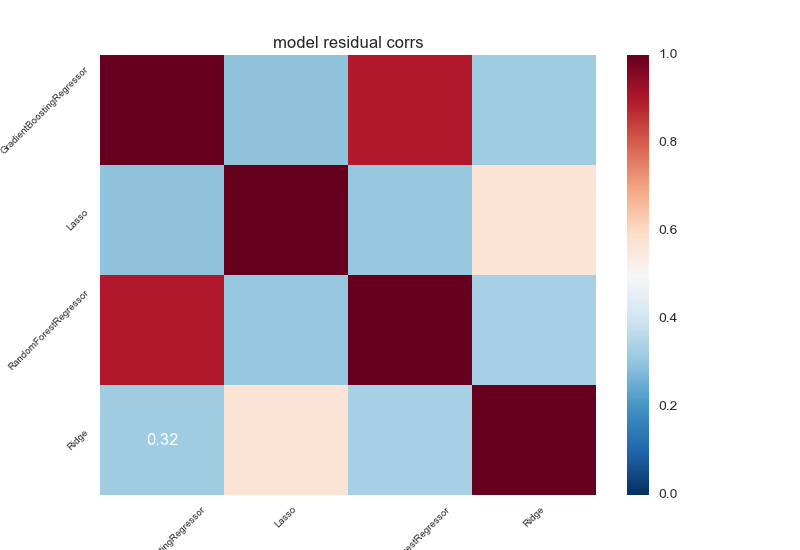
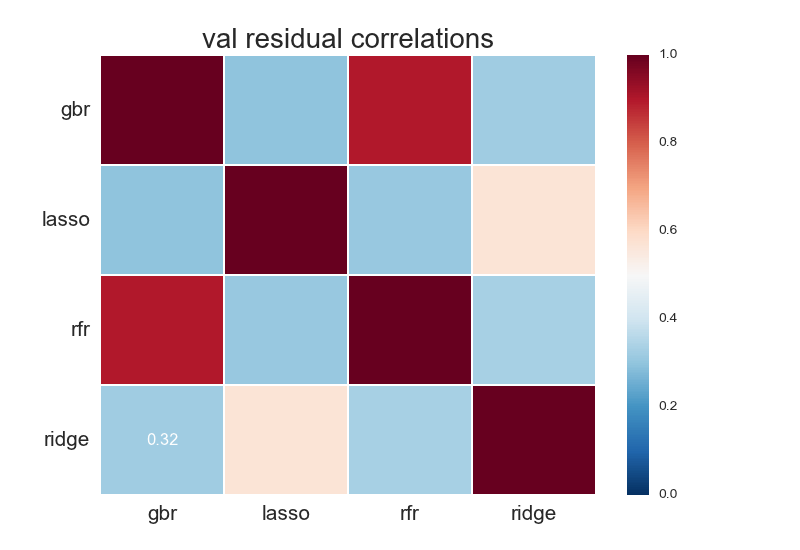
edits to readme

diff --git a/ANALYSIS/RESIDUALS/error_corr.py b/ANALYSIS/RESIDUALS/error_corr.py
@@ -19,6 +19,8 @@ def merge_preds(modell=['RandomForestRegressor','GradientBoostingRegressor','Rid
 			df = pd.read_csv(X)
 			name = X.split('/')[-1].split('.'+modeltype+'.csv')[0]
 			df['name']  = name
+			if 'test_pred' in df.columns:
+				df.rename(columns={'test_pred':'test.'+modeltype},inplace=True)
 			d[name].append(df)
 
 	for key in d.keys():
@@ -32,23 +34,31 @@ def merge_preds(modell=['RandomForestRegressor','GradientBoostingRegressor','Rid
 		mydf.to_csv(fi,index=False)
 
 def concat_merge(path=None):
+	print 'WRITING CONCATENATED FILE!'
 	pll =   glob.glob(path+'/*.csv')
 	c_df =pd.DataFrame()
+	dfs = []
 	for X in pll:
 		this = pd.read_csv(X)
-		if c_df.empty:
-			c_df =this
-		else:
-			c_df = pd.concat([c_df,this])
-	c_df.to_csv(writepath+'composite.csv',index=False)
+		dfs.append(this)
+		#if c_df.empty:
+		#	c_df =this
+		#else:
+		#	c_df = pd.concat([c_df,this],axis=0)
+		#print 'at {},len={}'.format(X,len(c_df))
+		#print c_df.columns.values.tolist()
+	c_df = pd.concat(dfs)
+	c_df.to_csv(path+'composite.csv',index=False)
 	return c_df
 	
 	
 
 
 def get_residual(df=None,modell=['RandomForestRegressor','GradientBoostingRegressor','Ridge','Lasso'],predtype=None):
-	if predtype=='val': impstr = 'cv'
-	else: impstr = 'test'
+
+	mod_dict = {'RandomForestRegressor':'rfr','Lasso':'Lasso','Ridge':'ridge','GradientBoostingRegressor':'gbr'}
+	if predtype=='val': impstr = 'cv.'
+	else: impstr = 'test.'
 	print df
 	pcols = [X for X in df.columns.values.tolist() if impstr in X]
 	idcols = [X for X in df.columns.values.tolist() if 'contest_ID' in X]
@@ -56,7 +66,8 @@ def get_residual(df=None,modell=['RandomForestRegressor','GradientBoostingRegres
 	rescols = []
 
 	for X in pcols:
-		resstr = 'res.'+X
+		Y = mod_dict[X.replace(impstr,'')]
+		resstr = 'res.'+Y.lower()
 		rescols.append(resstr)
 		df[resstr] = df[X]-df['true']
 	df.drop(pcols,1,inplace=True)
@@ -64,7 +75,7 @@ def get_residual(df=None,modell=['RandomForestRegressor','GradientBoostingRegres
 	df = df[keepcols]
 	df.columns = [X.split('.')[-1] for X in df.columns.values.tolist()]
 	scols = sorted(df.columns.values.tolist())
-
+	df.dropna(inplace=True)
 	return df[scols]
 
 
@@ -79,7 +90,7 @@ if __name__ == '__main__':
 		if predtype not in ptype_dict.keys():
 			print '*** predtype {}. choose from {}'.format(predtype, ptype_dict.keys())
 			sys.exit()
-        except Exception: predtype = 'val' ; ttype='gpp'
+        except Exception: predtype = 'test' ; ttype='gpp'
 
 	readpath_piece = '../../'+ttype+'_MYMODELS/'
 	path = readpath_piece+ptype_dict[predtype]+'/'
@@ -92,12 +103,12 @@ if __name__ == '__main__':
 
 	else:
 		df = pd.read_csv(composite_path)
-	df.dropna(inplace=True)
-
 	cdf = get_residual(df=df,predtype=predtype)
 	print cdf.info(verbose=True,null_counts=True)
-	sns.heatmap(cdf.corr(),center=0.5,annot=True)
-	plt.xticks(rotation=45,fontsize=7)
-	plt.yticks(rotation=45,fontsize=7)
-	plt.title('model residual corrs')
+	corrmat = cdf.corr()
+	print corrmat
+	sns.heatmap(corrmat,center=0.5,annot=True,linewidths=0.5,robust=True)
+	plt.xticks(rotation=0,fontsize=15)
+	plt.yticks(rotation=0,fontsize=15)
+	plt.title(predtype+' residual correlations',fontsize=20)
 	plt.savefig(ttype+'.'+predtype+'.corrmat.png')

diff --git a/README.md b/README.md
@@ -21,7 +21,7 @@ What causes gamblers to make the choices they make with the information they hav
 I set out to answer these questions using scraped contest records of field ownerships in past FanDuel NBA contests (thanks to [@brainydfs](http://brainydfs.com/)), historic athlete performance data from [sportsdatabase.com](http://sportsdatabase.com/), the news leading up to the particular contest (e.g., "industry" fantasy output projections from [basketballmonster.com](http://basketballmonster.com), [fantasycrunchers.com](http://fantasycrunchers.com), and others, themselves the output of decidedly mediocre regression models, available injury/roster reporting, etc.), and elements of the fantasy game mechanics presumed to impact fantasy gamblers' decisions. (These and others are detailed below.) I trained and validated ~400 player-centered models (estimators include ridge, lasso, random forest, and gradient-boosted regressors) on over 700 "tournament" contests from the 2016 season and the first two months of the 2017 season, holding out January 2017 slates for model testing.
 
 ## Results
-  * training/validating player-centered models
+  * __training/validating player-centered models__
 
    Below is a plot of athletes' average ownerships against their standard deviations. Colors correspond to k-Means decomposition (n=5) of the matrix of player models by respective model coefficients. Clustering of player models (only implicitly included in the model parameters) indicates similar model composition among athletes in close proximity on the mean-standard deviation plane. In other words, it turns out that common factors drive (un)popular athletes' market share.
 
@@ -210,18 +210,18 @@ I set out to answer these questions using scraped contest records of field owner
    |E'Twaun Moore|9.55|12.29|7.51|6.81|0.69|
  
   
-  * models in hold-out
+  * __models in hold-out__
   ![alt text](https://github.com/amadeus-pinto/forecasting-daily-fantasy-gambler-picks-based-on-the-news/blob/master/ANALYSIS/SLATES/FIGS/jan.RandomForestRegressor.gpp.png)
   ![alt text](https://github.com/amadeus-pinto/forecasting-daily-fantasy-gambler-picks-based-on-the-news/blob/master/ANALYSIS/SLATES/FIGS/jan.mean.gpp.png)
 
-  * models of tournament means
+  * __models of tournament means__
   ![alt text](https://github.com/amadeus-pinto/forecasting-daily-fantasy-gambler-picks-based-on-the-news/blob/master/ANALYSIS/SLATES/FIGS/field.Lasso.gpp.png)
 
   ![alt text](https://github.com/amadeus-pinto/forecasting-daily-fantasy-gambler-picks-based-on-the-news/blob/master/ANALYSIS/SLATES/FIGS/field.mean.gpp.png)
   Substituting training set mean ownerships in the tournament mean equation, predicted means are wildly unrealistic.  
 
-  * potential for stacking
-  ![alt text](https://github.com/amadeus-pinto/forecasting-daily-fantasy-gambler-picks-based-on-the-news/blob/master/ANALYSIS/RESIDUALS/gpp.val.corrmat.png )
+  * __potential for stacking__
+  ![alt text](https://github.com/amadeus-pinto/forecasting-daily-fantasy-gambler-picks-based-on-the-news/blob/master/ANALYSIS/RESIDUALS/gpp.test.corrmat.png )
 ##Model factors
   Follow the links below to view pair distributions of dependent and independent variables of LeBron James ownership observations. (Bear in mind that different variables are important for different athlete models).
 
